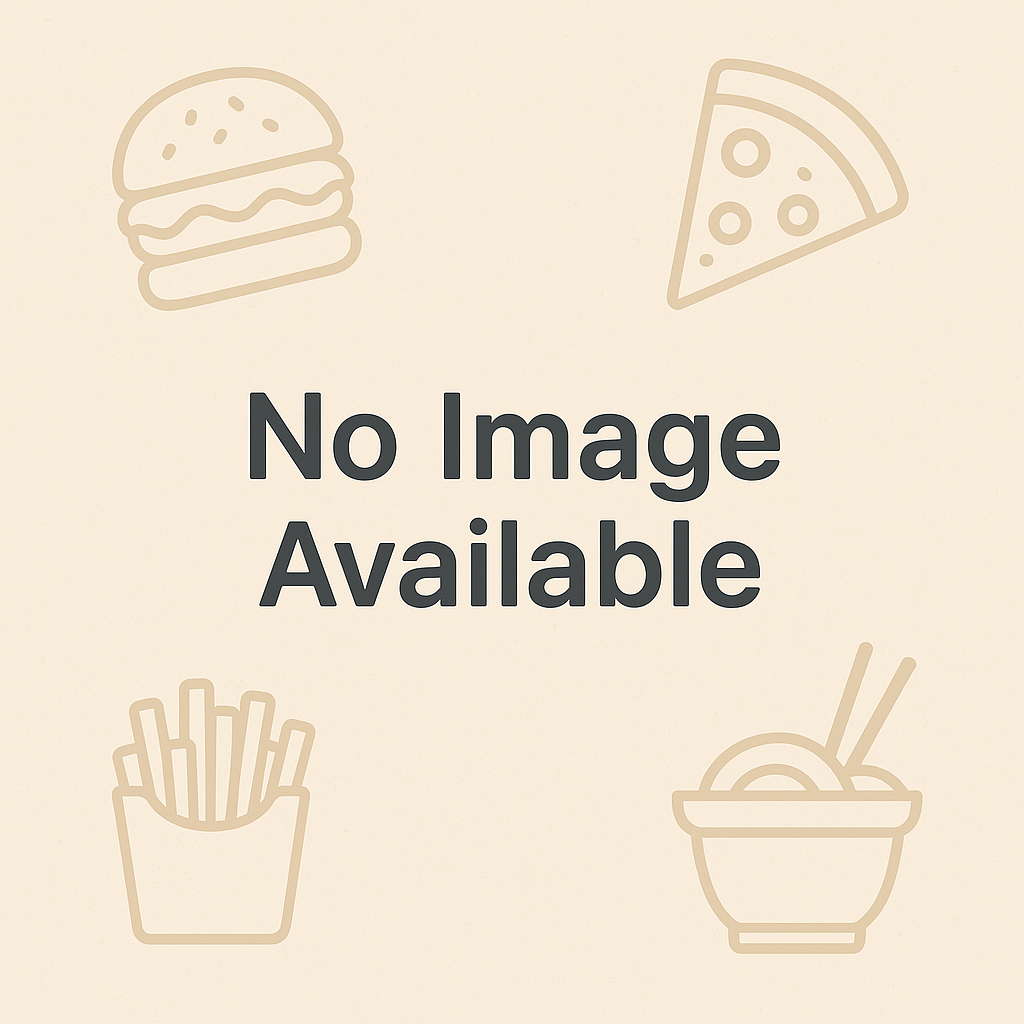
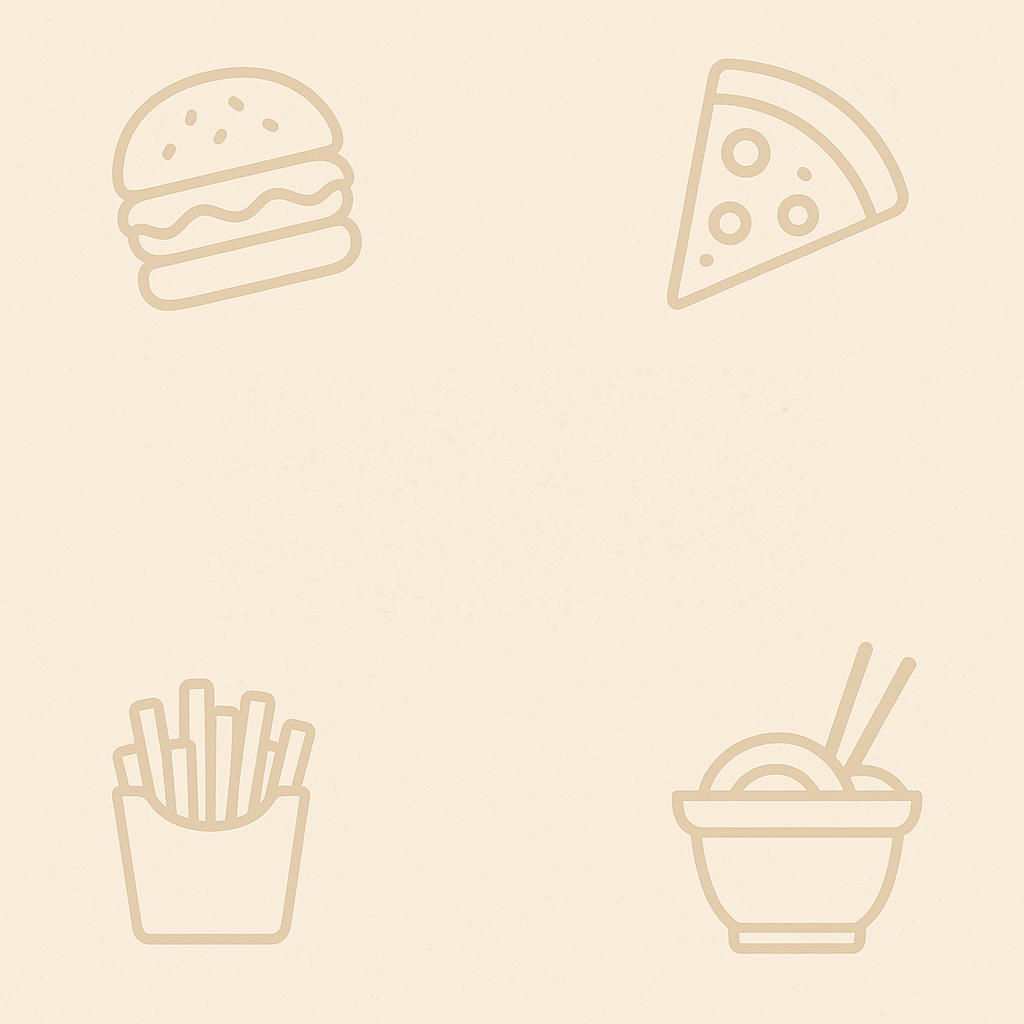
Build restaurat specific page

Changed region(s): [[0.2188, 0.375, 0.7812, 0.5938]]

diff --git a/src/components/RestaurantSpecific/MainContent.jsx b/src/components/RestaurantSpecific/MainContent.jsx
@@ -2,9 +2,9 @@ import { useEffect } from "react";
 import { useDispatch } from "react-redux";
 import { addCurrentRestaurant } from "../../features/home/restaurantsSlice";
 import Banner from "./Banner";
-import TopPicksCards from "./TopPicksCard";
+import TopPicksCards from "./TopPicksCards";
 
-const MainContent = ({ data, routes = true, routeParams }) => {
+const MainContent = ({ data, routes = true }) => {
   const dispatch = useDispatch();
 
   useEffect(() => {
@@ -17,35 +17,50 @@ const MainContent = ({ data, routes = true, routeParams }) => {
   const navigation = cards?.[1];
   const banner = cards?.[2];
   const offers = cards?.[3];
-  const menu = cards?.at(-1)?.groupedCard?.cardGroupMap?.REGULAR?.cards.slice(1);
+  const menu = cards
+    ?.at(-1)
+    ?.groupedCard?.cardGroupMap?.REGULAR?.cards.slice(1);
 
-  const topPicks = menu.find(item => {
+  const topPicks = menu.find((item) => {
     return item?.card?.card?.title === "Top Picks";
   });
 
   // console.log("Top Picks", topPicks);
 
-  const recommendations = menu.find(item => {
-    return item?.card?.card?.title === "Recommended"
+  const recommendations = menu.find((item) => {
+    return item?.card?.card?.title === "Recommended";
   });
 
   // console.log("Recommendations", recommendations);
 
-  const RestaurantLicenseInfo = menu.find(item => {
-    return item?.card?.card?.["@type"] === "type.googleapis.com/swiggy.presentation.food.v2.RestaurantLicenseInfo";
+  const RestaurantLicenseInfo = menu.find((item) => {
+    return (
+      item?.card?.card?.["@type"] ===
+      "type.googleapis.com/swiggy.presentation.food.v2.RestaurantLicenseInfo"
+    );
   });
 
   // console.log("Restaurant License Info", RestaurantLicenseInfo);
 
-  const RestaurantAddress = menu.find(item => {
-    return item?.card?.card?.["@type"] === "type.googleapis.com/swiggy.presentation.food.v2.RestaurantAddress";
+  const RestaurantAddress = menu.find((item) => {
+    return (
+      item?.card?.card?.["@type"] ===
+      "type.googleapis.com/swiggy.presentation.food.v2.RestaurantAddress"
+    );
   });
 
   // console.log("Restaurant Address", RestaurantAddress);
 
-  const restMenuData = menu.filter(item => {
-    return item?.card?.card?.title !== "Top Picks" && item?.card?.card?.title !== "Recommended" && item?.card?.card?.["@type"] !== "type.googleapis.com/swiggy.presentation.food.v2.RestaurantLicenseInfo" && item?.card?.card?.["@type"] !== "type.googleapis.com/swiggy.presentation.food.v2.RestaurantAddress";
-  })
+  const restMenuData = menu.filter((item) => {
+    return (
+      item?.card?.card?.title !== "Top Picks" &&
+      item?.card?.card?.title !== "Recommended" &&
+      item?.card?.card?.["@type"] !==
+        "type.googleapis.com/swiggy.presentation.food.v2.RestaurantLicenseInfo" &&
+      item?.card?.card?.["@type"] !==
+        "type.googleapis.com/swiggy.presentation.food.v2.RestaurantAddress"
+    );
+  });
 
   // console.log("Rest Data", restMenuData);
 
@@ -60,14 +75,10 @@ const MainContent = ({ data, routes = true, routeParams }) => {
         <h1>{title}</h1>
       </div>
       {<Banner data={banner} />}
-
-      <p>{`lat = ${routeParams.lat} and lng = ${routeParams.lng} and id = ${routeParams.id}`}</p>
-
       <hr />
-      {topPicks && <TopPicksCards data={topPicks}/>}
+      {topPicks && <TopPicksCards data={topPicks} />}
 
-{/* menu button */}
-
+      {/* menu button */}
       <button className="fixed bottom-3.5 right-72 h-[12vh] w-[12vh] rounded-[50%] bg-black text-white text-xs font-bold shadow-[0_0_10px_5px_rgba(0,0,0,0.4)] cursor-pointer">
         MENU
       </button>

diff --git a/src/components/RestaurantSpecific/TopPicksCard.jsx b/src/components/RestaurantSpecific/TopPicksCard.jsx
@@ -1,12 +1,44 @@
-const TopPicksCards = ({ data }) => {
-    const mainData = data?.card?.card?.carousel;
+const TopPicksCard = ({ data }) => {
+  const imageId = encodeURIComponent(data?.imageId.trim());
+  const imageUrl = `https://media-assets.swiggy.com/swiggy/image/upload/${imageId}}`;
+  const price = data?.price ? (data?.price/100).toFixed(2) : "";
 
-    // console.log("MAinm",mainData);
-    const cards = mainData?.map(item => item?.dish?.info)
+  return (
+    <div
+      className={`flex flex-col justify-between w-72 h-72 rounded my-2 bg-cover bg-center p-4`}
+      style={{
+        backgroundImage: `url(${imageUrl})  url('/images/fallback.png')`,
+      }}
+    >
+      {!imageId && (
+        <div id="decription">
+          <p className="text-black font-bold text-lg">{data?.name}</p>
+          <p className="">
+            {data?.description ? data?.description.match(/\w+.*?\./)?.[0] : ""}
+          </p>
+        </div>
+      )}
+      <div id="button" className="flex items-center justify-between mt-auto">
+        <p className=" font-semibold text-black">₹{price}</p>
+        <button className="py-2 px-7 bg-green-500 text-white rounded-md">
+          Add
+        </button>
+      </div>
+    </div>
+  );
+};
 
-    // console.log("Cards",cards);
+export default TopPicksCard;
 
-    return <div></div>
-} 
+//  https://media-assets.swiggy.com/swiggy/image/uploa…l_lossy,f_auto,q_auto,w_292,h_300/TopPicks/KoSCB1
 
-export default TopPicksCards;
+
+// <img src="https://media-assets.swiggy.com/swiggy/image/upload/FOOD_CATALOG/IMAGES/CMS/2025/4/2/dd6612b2-16e2-4184-9598-5248ad305dcf_7d08c76a-18b4-497a-8206-562ef44ae963.jpg" alt="Korean Spicy Chicken Burger" aria-hidden="true">
+
+
+{/* <div class="_1U7PA" style="background-image: url(&quot;https://media-assets.swiggy.com/swiggy/image/upload/fl_lossy,f_auto,q_auto/portal/m/green_placeholder&quot;);"><img src="https://media-assets.swiggy.com/swiggy/image/upload/fl_lossy,f_auto,q_auto,w_292,h_300/TopPicks/KoSCB1" alt="Korean Spicy Chicken Burger" aria-hidden="true"><div class="_buSC" style="color: rgb(255, 255, 255);"><p class="_1QbUq">Non-veg item. 
+            Korean Spicy Chicken Burger. 
+            Description: "Crunchy Juicy whole muscle chicken patty dunked in hot and sweet Korean glaze with Korean sesame mayo in premium Brioche buns for authentic Korean flavours 
+Qty: 227 Gms| Kcal: 607.27 | Carbs 55.14 Gms| Sugar: 31.59 Gms| Fat: 31.59 Gms| Saturated fat: 11.58 Gms| Protein: 25.58 Gms| Sodium: 1793.87 Mg 
+Contains: Gluten, Soybean , Milk ". 
+            Price: 299 rupees.</p><div class="ddDKp"><div class="_1gGaK"><div class="sc-aXZVg gBtjIP">299</div></div><div class="_7QqbN"><div style="position: relative;"><div class="sc-fBdRDi ceMcJT"><div class="sc-kbhJrz hNnSKV"><button class="sc-ehixzo sc-bpUBKd cxbRDQ dckZKm add-button-left-container"><div class="sc-aXZVg biMKCZ">−</div></button><div class="sc-kbousE bIERnx"><button class="sc-ehixzo sc-gfoqjT cxbRDQ dqQKJp"><div class="sc-aXZVg biMKCZ">Add</div></button><button class="sc-ehixzo sc-iHmpnF cxbRDQ eoVtij add-button-center-container"><div class="sc-aXZVg biMKCZ">Add</div></button><button class="sc-ehixzo sc-dBmzty cxbRDQ jpoWMJ"><div class="sc-aXZVg biMKCZ">1</div></button></div><button class="sc-ehixzo sc-eyvILC cxbRDQ jFScYw add-button-right-container"><div class="sc-aXZVg biMKCZ">+</div></button></div><div class="sc-fifgRP iPBdcP"><div class="sc-aXZVg btGlKk">Customisable</div></div></div></div></div></div></div><div></div></div> */}

diff --git a/src/components/Home/Cards.jsx b/src/components/Home/Cards.jsx
@@ -10,7 +10,8 @@ const Cards = ({ data, from }) => {
   const imageId = encodeURIComponent(data?.cloudinaryImageId?.trim());
   const imageUrl = `https://media-assets.swiggy.com/swiggy/image/upload/${imageId}`;
 
-  // console.log(imageUrl)
+  // To get image from public folder give the path of the image after "/" , here "/" means public folder
+  // const imageUrl = `/images/image.png`;
 
   const handleClick = () => {
     dispatch(addCurrentRestaurant(data?.name));
@@ -27,7 +28,7 @@ const Cards = ({ data, from }) => {
         className={`w-full h-40 bg-no-repeat bg-cover bg-center rounded-2xl flex items-end p-2`}
         style={{
           height: from === "online" ? 160 : 176,
-          backgroundImage: `linear-gradient(0deg,rgba(23, 23, 23, 1) 0%, rgba(247, 247, 247, 0) 48%), url(${imageUrl})`,
+          backgroundImage: `linear-gradient(0deg,rgba(23, 23, 23, 1) 0%, rgba(247, 247, 247, 0) 48%), url(${imageUrl}), url("/images/fallback.png")`,
         }}
       >
         <p className="font-bold text-white text-xl">

diff --git a/src/components/RestaurantSpecific/TopPicksCards.jsx b/src/components/RestaurantSpecific/TopPicksCards.jsx
@@ -1,0 +1,11 @@
+import TopPicksCard from './TopPicksCard';
+import HorizontalCarousel from '../HorizontalCarousel';
+
+const TopPicksCards = ({ data }) => {
+    const mainData = data?.card?.card?.carousel;
+    const cardsData = mainData?.map(item => item?.dish?.info)
+
+    return <HorizontalCarousel heading="Top Picks" margin_bottom="mb-2" dataToMap={cardsData} Card={TopPicksCard} showScrollBar={false} />
+} 
+
+export default TopPicksCards;

diff --git a/src/components/Location/GeoLocation.jsx b/src/components/Location/GeoLocation.jsx
@@ -7,7 +7,6 @@ import { useLazyGetHomePageDataQuery } from "../..//features/home/homeApiSlice";
 
 import { updateCurrentCity } from "../../utils/addCurrentCity";
 import { updateHomeRestaurantData } from "../../utils/updateHomeData";
-import useRouteRedirect from "../../utils/useRouteRedirect";
 
 const GeoLocation = ({ setSearchValue }) => {
   const [triggerLoactionByCoordinates] = useLazyLocationByCoordinatesQuery();

diff --git a/src/components/Location/RecentLocations.jsx b/src/components/Location/RecentLocations.jsx
@@ -16,7 +16,6 @@ import {
 import { closeLocationInModal } from "../../features/Login/loginSlice";
 import { updateSearchedCity } from "../../utils/addSearchedCity";
 import { updateHomeRestaurantData } from "../../utils/updateHomeData";
-import useRouteRedirect from "../../utils/useRouteRedirect";
 
 const RecentLocations = () => {
   const recentLocations = useSelector(selectRecentLocations);

diff --git a/src/components/RestaurantSpecific/RestaurantSpecific.jsx b/src/components/RestaurantSpecific/RestaurantSpecific.jsx
@@ -29,7 +29,7 @@ const RestaurantSpecific = () => {
     <Suspense fallback={<ShimmerContainer />}>
       <Await resolve={result.data}>
         {(data) => (
-          <MainContent routeParams={routeParams} data={data}/>
+          <MainContent data={data}/>
         )}
       </Await>
     </Suspense>
